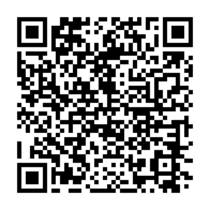
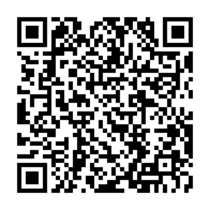
report

diff --git a/Creation_Certificate.py b/Creation_Certificate.py
@@ -17,7 +17,7 @@ def create_qrcode(data):  #data is the signature
 
 def generate_text_image(identify,
                         institute):  # Generate text for certificate titile
-    texte_ligne = "Certificate of success | issued to {} {}".format(
+    texte_ligne = "Attestation de reussite|delivree a {} {}".format(
         identify, institute)
     print(texte_ligne)
     Process = subprocess.Popen(
@@ -26,7 +26,7 @@ def generate_text_image(identify,
         shell=True,
         stdout=subprocess.PIPE)
 
-    (result, ignorer) = Process.communicate()
+    (output, error) = Process.communicate()
     if Process.returncode == 0:
         print("Create text image")
         return True
@@ -41,7 +41,7 @@ def combine_image():
                                shell=True,
                                stdout=subprocess.PIPE)
 
-    (result, ignorer) = Process.communicate()
+    (output, error) = Process.communicate()
     if Process.returncode == 0:
         print("Composite image to background...")
         return True
@@ -56,7 +56,7 @@ def combine_qrcode():
                                shell=True,
                                stdout=subprocess.PIPE)
 
-    (result, ignorer) = Process.communicate()
+    (output, error) = Process.communicate()
     if Process.returncode == 0:
         print("Composite qrcode to background...")
         return True
@@ -76,11 +76,14 @@ def create_signature(info):
                                shell=True,
                                stdout=subprocess.PIPE)
 
-    (result, ignorer) = Process.communicate()
+    (output, error) = Process.communicate()
+
     if Process.returncode == 0:
         print("create signature")
         return True
     else:
+        print("-------------------\nWrong password")
+        print("\nCreate certificate failed")
         return False
 
 
@@ -92,7 +95,7 @@ def create_timespamp(signature):
                                   shell=True,
                                   stdout=subprocess.PIPE)
 
-    (result, ignorer) = ProcessTSQ.communicate()
+    (output, error) = ProcessTSQ.communicate()
 
     if ProcessTSQ.returncode == 0:
         print("Create timestamp-query")
@@ -104,7 +107,7 @@ def create_timespamp(signature):
     ],
                                   shell=True,
                                   stdout=subprocess.PIPE)
-    (result, ignorer) = ProcessTSR.communicate()
+    (output, error) = ProcessTSR.communicate()
 
     if ProcessTSR.returncode == 0:
         print("create timestamp ts_respond")
@@ -129,18 +132,18 @@ def bin_to_base64(file):
 
 
 def create_certificate(nomEtPrenom, institute, info):
-    create_signature(info)
-    create_timespamp("./CA/signature.sig")
-    signatureAscii = bin_to_base64("./CA/signature.sig")
-    print("----\n", len(signatureAscii))
-    create_qrcode(signatureAscii)
-    generate_text_image(nomEtPrenom, institute)
-    combine_image()
-    combine_qrcode()
+    if(create_signature(info)):
+        create_timespamp("./CA/signature.sig")
+        signatureAscii = bin_to_base64("./CA/signature.sig")
+        print("----\n", len(signatureAscii))
+        create_qrcode(signatureAscii)
+        generate_text_image(nomEtPrenom, institute)
+        combine_image()
+        combine_qrcode()
 
-    timestampAscii = bin_to_base64("./ts/ts_respond.tsr")
-    print("----\n", len(timestampAscii))
-    messageStegano = signatureAscii + timestampAscii
-    img = Image.open("attestation.png")
-    cacher(img, messageStegano)
-    img.save("attestation.png")
+        timestampAscii = bin_to_base64("./ts/ts_respond.tsr")
+        print("----\n", len(timestampAscii))
+        messageStegano = signatureAscii + timestampAscii
+        img = Image.open("attestation.png")
+        cacher(img, messageStegano)
+        img.save("attestation.png")

diff --git a/Verification_Certificate.py b/Verification_Certificate.py
@@ -33,7 +33,7 @@ def verify_timestamp(data):
                                   shell=True,
                                   stdout=subprocess.PIPE)
 
-    (result, ignorer) = ProcessTSQ.communicate()
+    (output, error) = ProcessTSQ.communicate()
     if ProcessTSQ.returncode == 0:
         print("Create timestamp-query")
     else:
@@ -45,9 +45,9 @@ def verify_timestamp(data):
     ],
                                   shell=True,
                                   stdout=subprocess.PIPE)
-    (result, ignorer) = ProcessTSR.communicate()
+    (output, error) = ProcessTSR.communicate()
 
-    if ProcessTSR.returncode == 0 and result.decode() == 'Verification: OK\n':
+    if ProcessTSR.returncode == 0 and output.decode() == 'Verification: OK\n':
         print("Verify success timestamp")
         return True
     else:
@@ -62,8 +62,8 @@ def verify_signature(data):
                                shell=True,
                                stdout=subprocess.PIPE)
 
-    (result, ignorer) = Process.communicate()
-    if Process.returncode == 0 and result.decode() == 'Verified OK\n':
+    (output, error) = Process.communicate()
+    if Process.returncode == 0 and output.decode() == 'Verified OK\n':
         print("verify success signature")
         return True
     else:
@@ -98,7 +98,7 @@ def get_data_from_stegano():
 def verify_certificate():
     get_qrcode_png()
     get_data_from_qrcode()
-    signature, timeStamp = get_data_from_stegano()
+    _, _= get_data_from_stegano()
     if (verify_signature("verify_sig_qrcode.sig") == True) and (
             verify_timestamp("verify_timestamp.tsr")
             == True) and (verify_signature("verify_signature_stegno.sig")

diff --git a/Web_Service.py b/Web_Service.py
@@ -26,12 +26,9 @@ def verification_attestation():
 @route('/fond')
 def recuperer_fond():
     response.set_header('Content-type', 'image/png')
-    descripteur_fichier = open('fond_attestation.png', 'rb')
+    descripteur_fichier = open('attestation.png', 'rb')
     contenu_fichier = descripteur_fichier.read()
     descripteur_fichier.close()
     return contenu_fichier
-
-
-
 
 run(host='0.0.0.0',port=8080,debug=True)

diff --git a/report/main.md b/report/main.md
@@ -1,0 +1,71 @@
+---
+title: "Securite TIC Projet - CertifPlus"
+author: \textbf{DO Duy Huy Hoang} \newline
+				\textbf{NGUYEN Thi Mai Phuong} \newline
+        \newline
+        \textit{University of Limoges} \newline 
+date: \today
+titlepage: false
+header-includes: |
+    \usepackage{multicol}
+    \usepackage{graphicx}
+footer-left: DO Hoang et Mai Phuong
+mainfont: NewComputerModern
+sansfont: NewComputerModern
+monofont: Dank Mono
+caption-justification: centering
+...
+\pagenumbering{Roman} 
+
+\newpage{}
+\listoftables
+\newpage{}
+\listoffigures
+\newpage{}
+\tableofcontents
+\newpage{}
+
+\pagenumbering{arabic} 
+
+\vspace{3cm}
+\newpage{}
+
+\pagenumbering{arabic} 
+
+# I. Introduction
+
+In this project, we are suppose to implement a distribution processsecure electronic certificate of success for CertifPlus company.
+
+
+## Objectives 
+
+- An user can:
+	- request to create a certificate with their information
+	- download their certificate
+	- verify an existing certificate
+
+- The authenticity of the certificate issued electronically in the form of an image must be guaranteed:
+	- The image contains visible information :
+		- The name of the person receiving the certificate of achievement
+		- The name of the successful certification
+		- A QRcode containing the signature of this information
+	- The image contains hidden information :
+		- tamper-proof information is concealed by steganography in the image. This information includes the visible information of the certificate as well as the guaranteed delivery dateby a *timestamp* signed by a time stamping authority [freetsa](www.freetsa.org)
+
+- Verification
+	- extract and the stamp concealed in the image by steganography and verify signature and timestamp
+	- checks the signature encoded in the QRcode
+
+# II. Programs, Materials, Methodologies 
+
+## 2.1 Programs and Materials
+
+- Python 3.8
+- bottle - For Web Services
+- qrcode, numpy, Pillow, zbarlight for qrCode creation, verification and image modification
+- a stenography library provided in this project
+- socat - multipurpose relay tool
+
+## 2.2 Methodologies
+
+### A. Creating certficate
